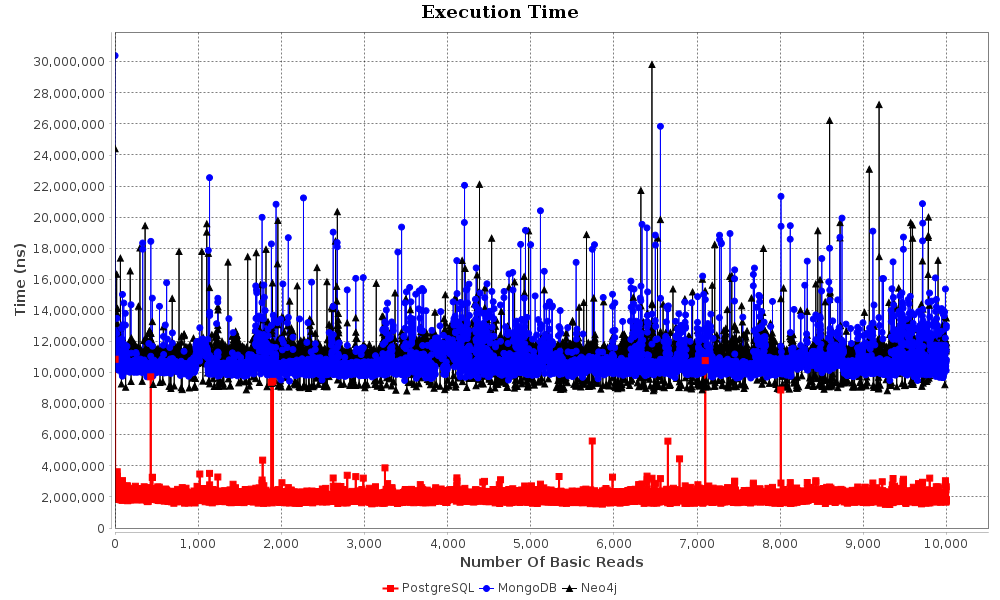
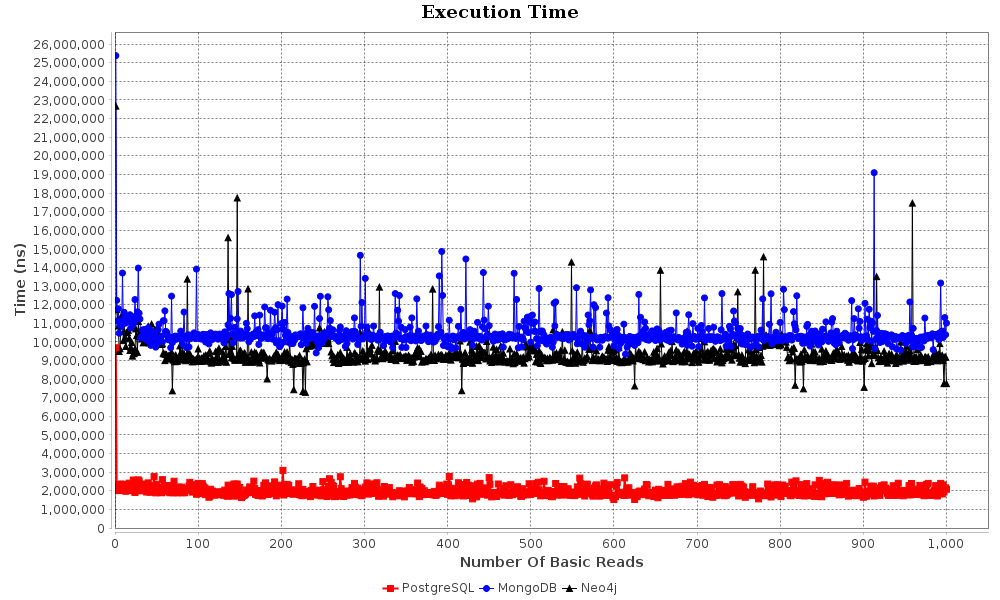
Updated WorkBench.java

diff --git a/app/src/main/java/databaseauditor/WorkBench.java b/app/src/main/java/databaseauditor/WorkBench.java
@@ -24,9 +24,9 @@ public class WorkBench {
             analyzer.create(ob1, 10000);
             
             // analyzer.create(ob1, 10000);
-            analyzer.read(ob1, 10000);
-            analyzer.update(ob1, 10000);
-            analyzer.delete(ob1, 10000);
+            analyzer.read(ob1, 1000);
+            analyzer.update(ob1, 1000);
+            analyzer.delete(ob1, 1000);
             
             // analyzer.query(200);
 
